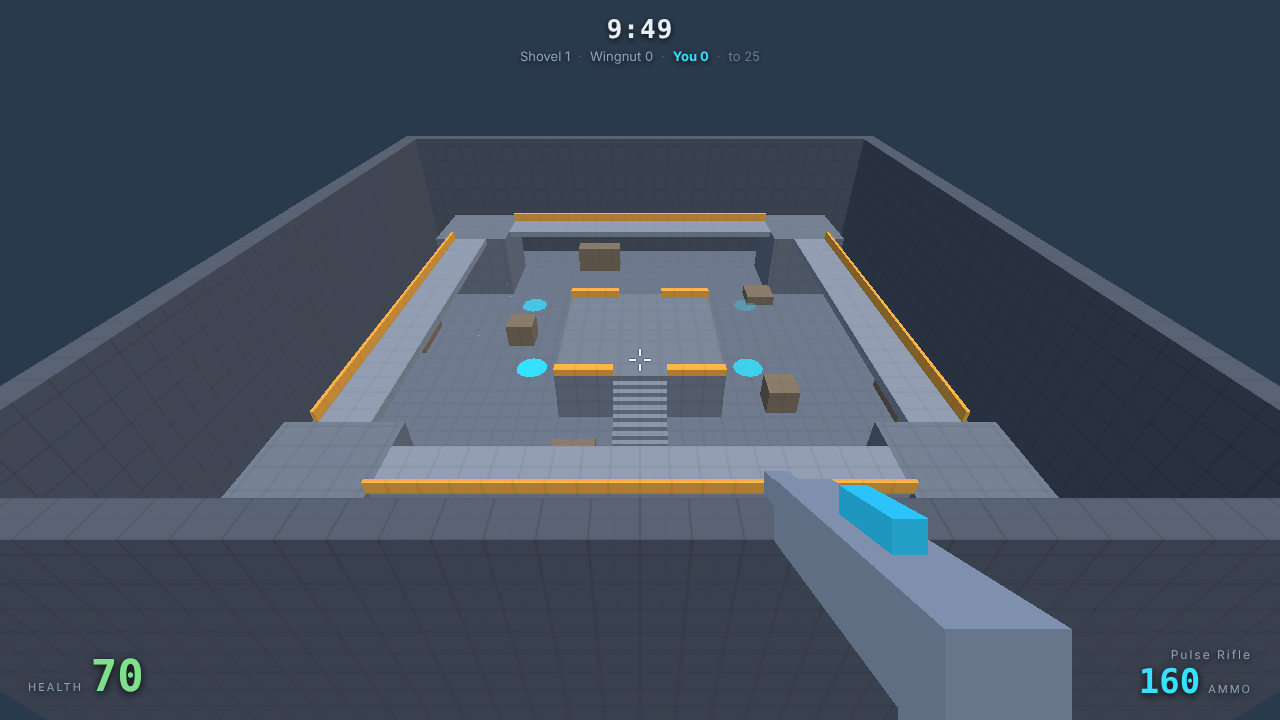
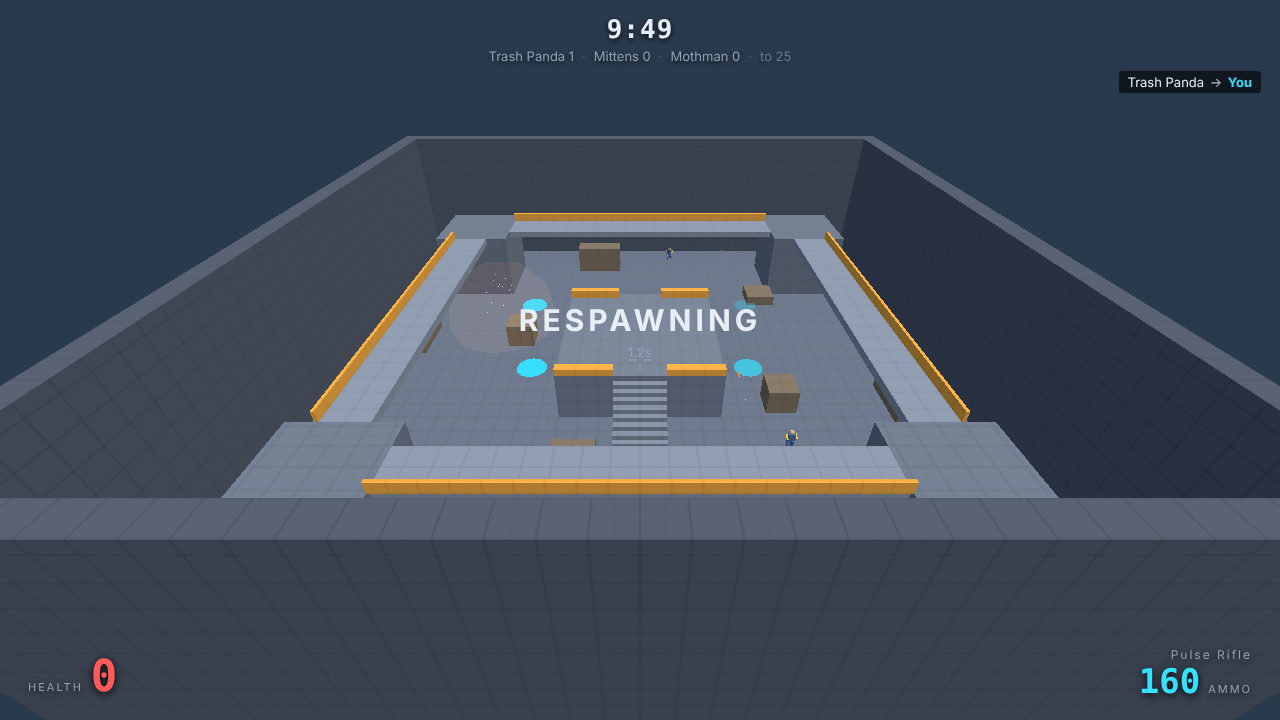
Hide the HUD until a match exists
An empty health/ammo readout showed faintly through the lobby's backdrop
blur, which reads as a rendering bug rather than a deliberately quiet HUD.
It now reveals on start and hides again on leaving a match; it deliberately
stays visible behind the pause menu, where seeing your own state is the
point.

Also refreshes docs/overview.png, which the README embeds, now that the
arena lighting and the face-winding fix have landed.

Claude-Session: https://claude.ai/code/session_01HwdP8PFxq7rrxxjCoCKxBg

diff --git a/src/client/Game.js b/src/client/Game.js
@@ -15,6 +15,10 @@ export class Game {
     this.canvas = canvas;
     this.renderer = new Renderer(canvas, { quality: 'medium' });
     this.hud = new HUD(hudRoot);
+    this.hudRoot = hudRoot;
+    // Nothing to report until a match exists; the empty HUD showing through
+    // the lobby backdrop just looks like a bug.
+    hudRoot.hidden = true;
     this.input = new Input(canvas);
     this.input.onPause = () => this.#onPointerLost();
 
@@ -43,6 +47,7 @@ export class Game {
     this.snapshot = this.host.snapshot();
     this.renderer.syncActors(this.snapshot, this.host.localActorId, this.headScale);
     this.hud.setMessage('');
+    this.hudRoot.hidden = false;
 
     this.running = true;
     this.paused = false;
@@ -53,6 +58,7 @@ export class Game {
 
   stop() {
     this.running = false;
+    this.hudRoot.hidden = true;
     this.input.releaseLock();
     this.renderer.clearArena();
     this.host = null;
